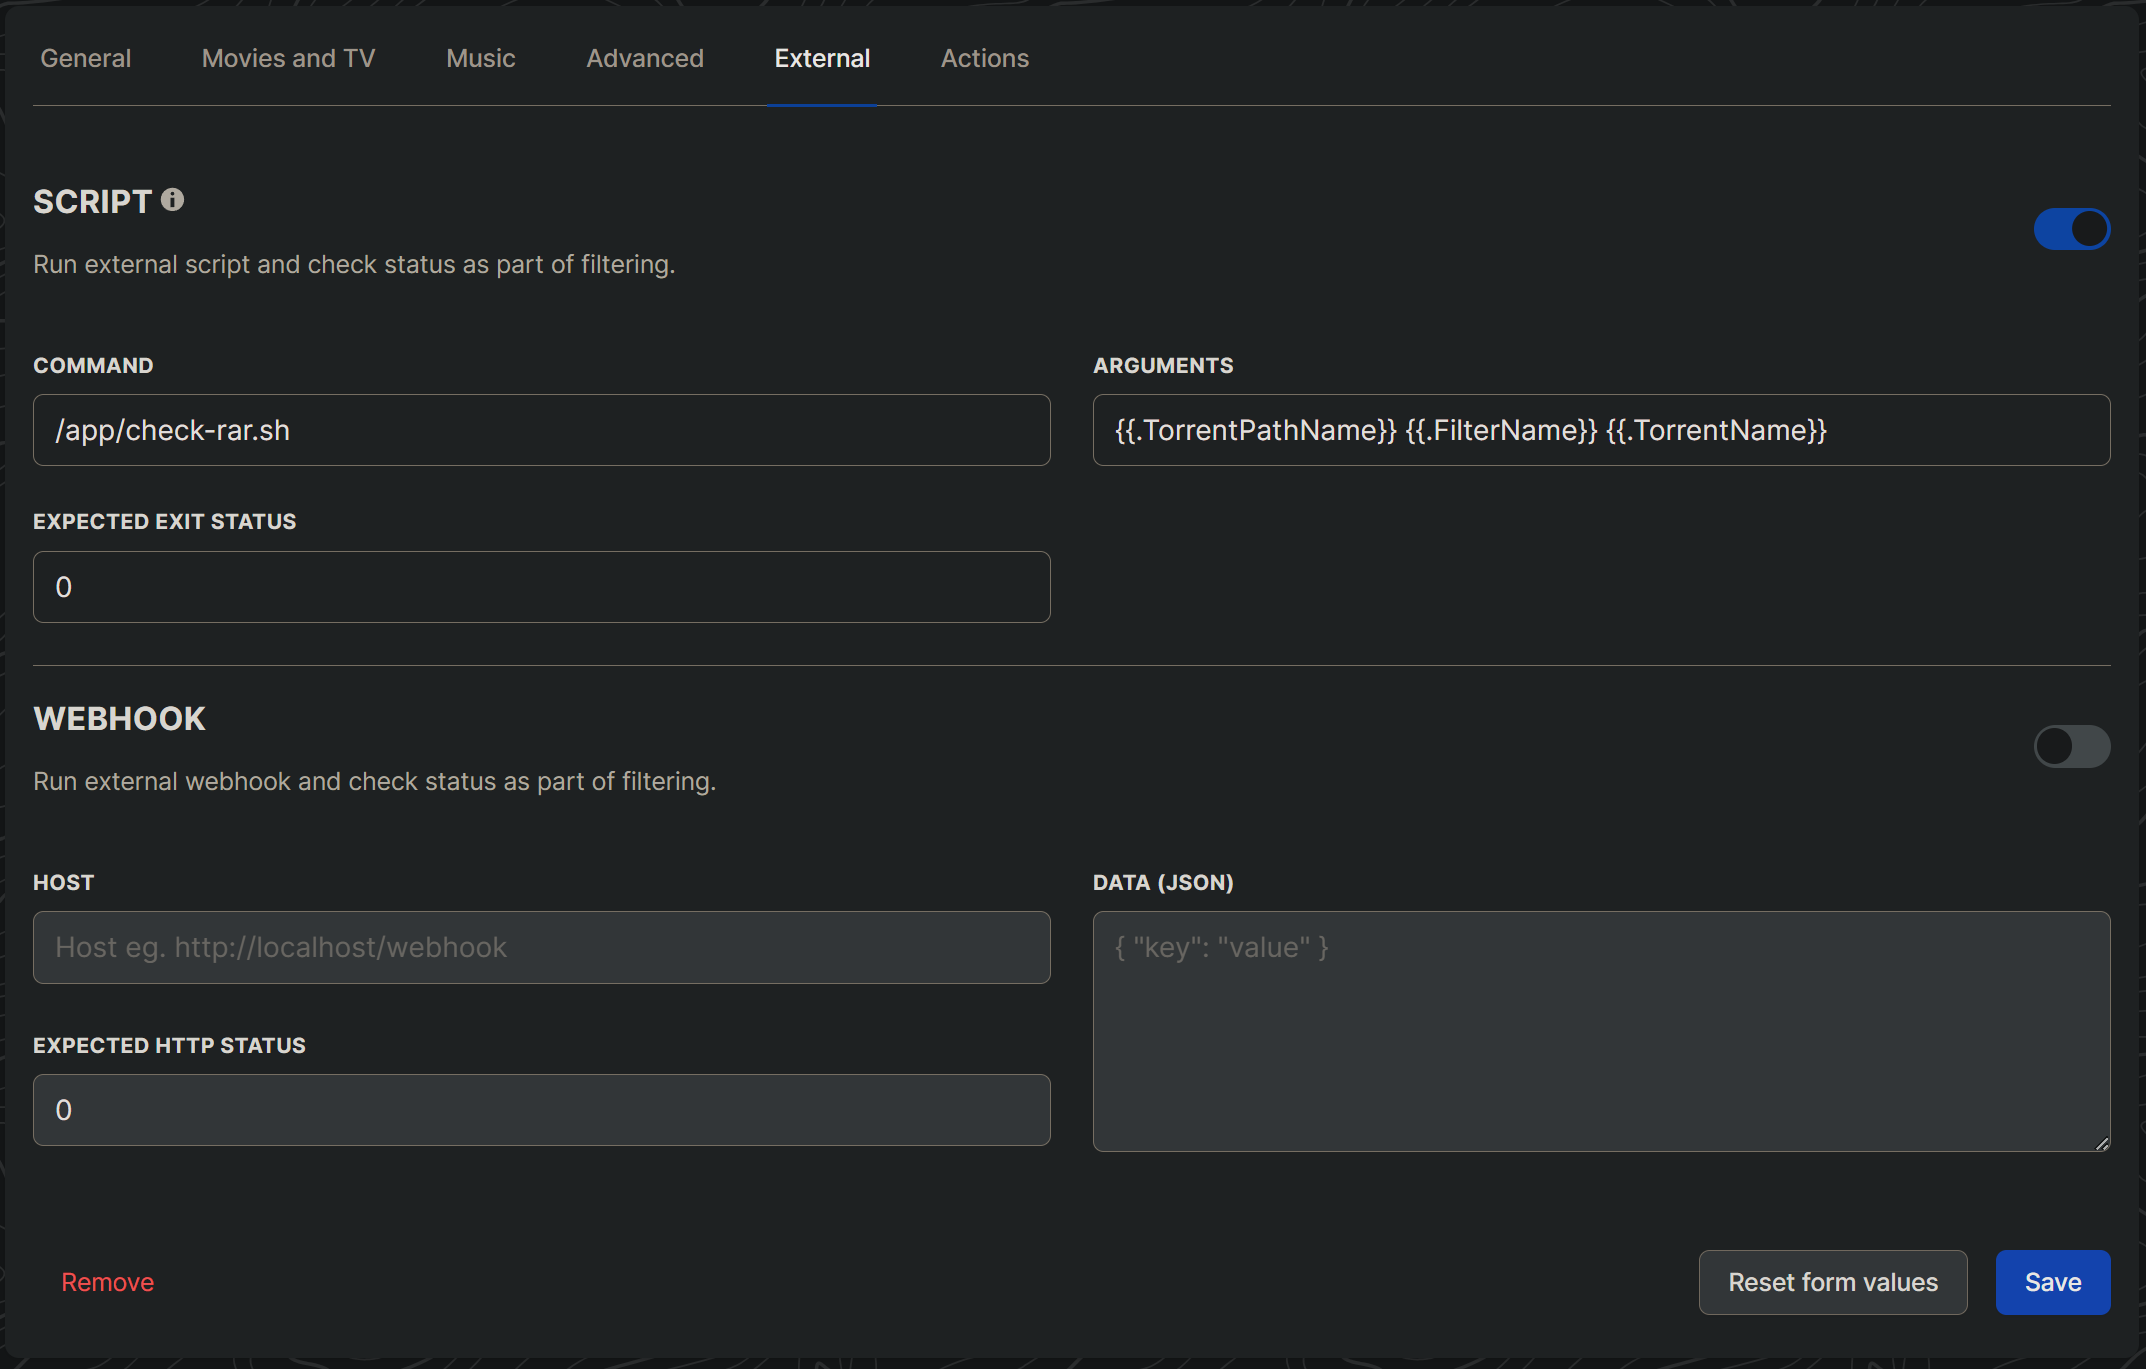
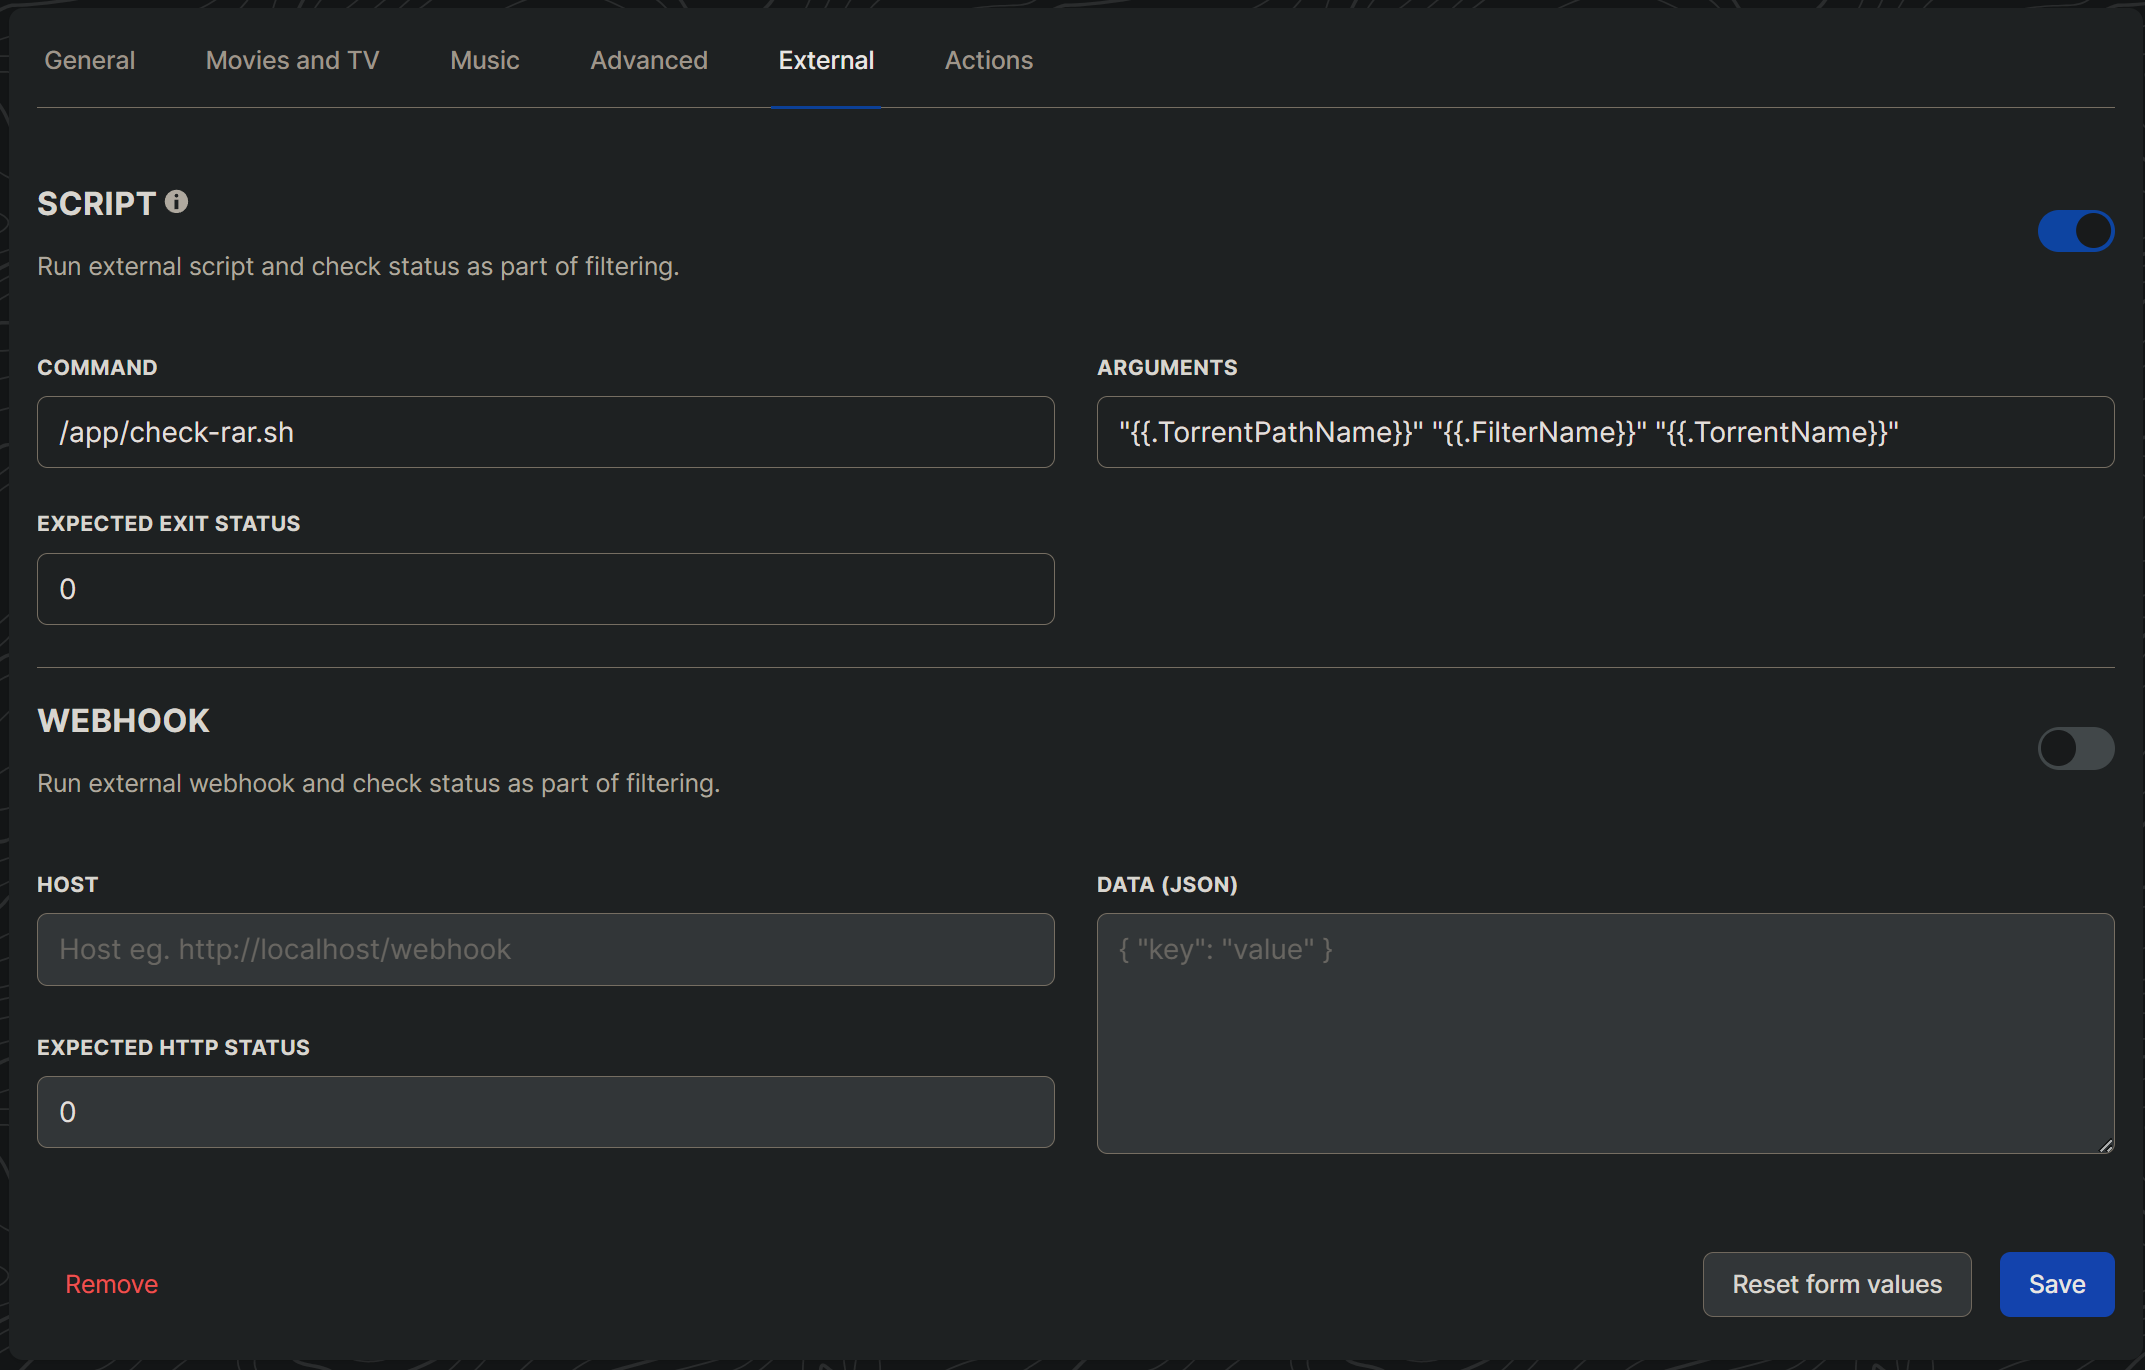
wrap variables in quotes

diff --git a/README.md b/README.md
@@ -7,7 +7,7 @@ If you don't like getting stuff from autobrr that has `.rar` files, you're in lu
 To ensure that no releases are passed to an action if they contain a `.rar` file, go to the "External" tab of your filter(s). Fill out the following information in the "Script" section of the page:
 
 1. Command: `/app/check-rar.sh`
-2. Arguments: `{{.TorrentPathName}} {{.FilterName}} {{.TorrentName}}`
+2. Arguments: `"{{.TorrentPathName}}" "{{.FilterName}}" "{{.TorrentName}}"`
 3. Expected exit status: `0`
 
 Then hit save. Here's how it should look:
